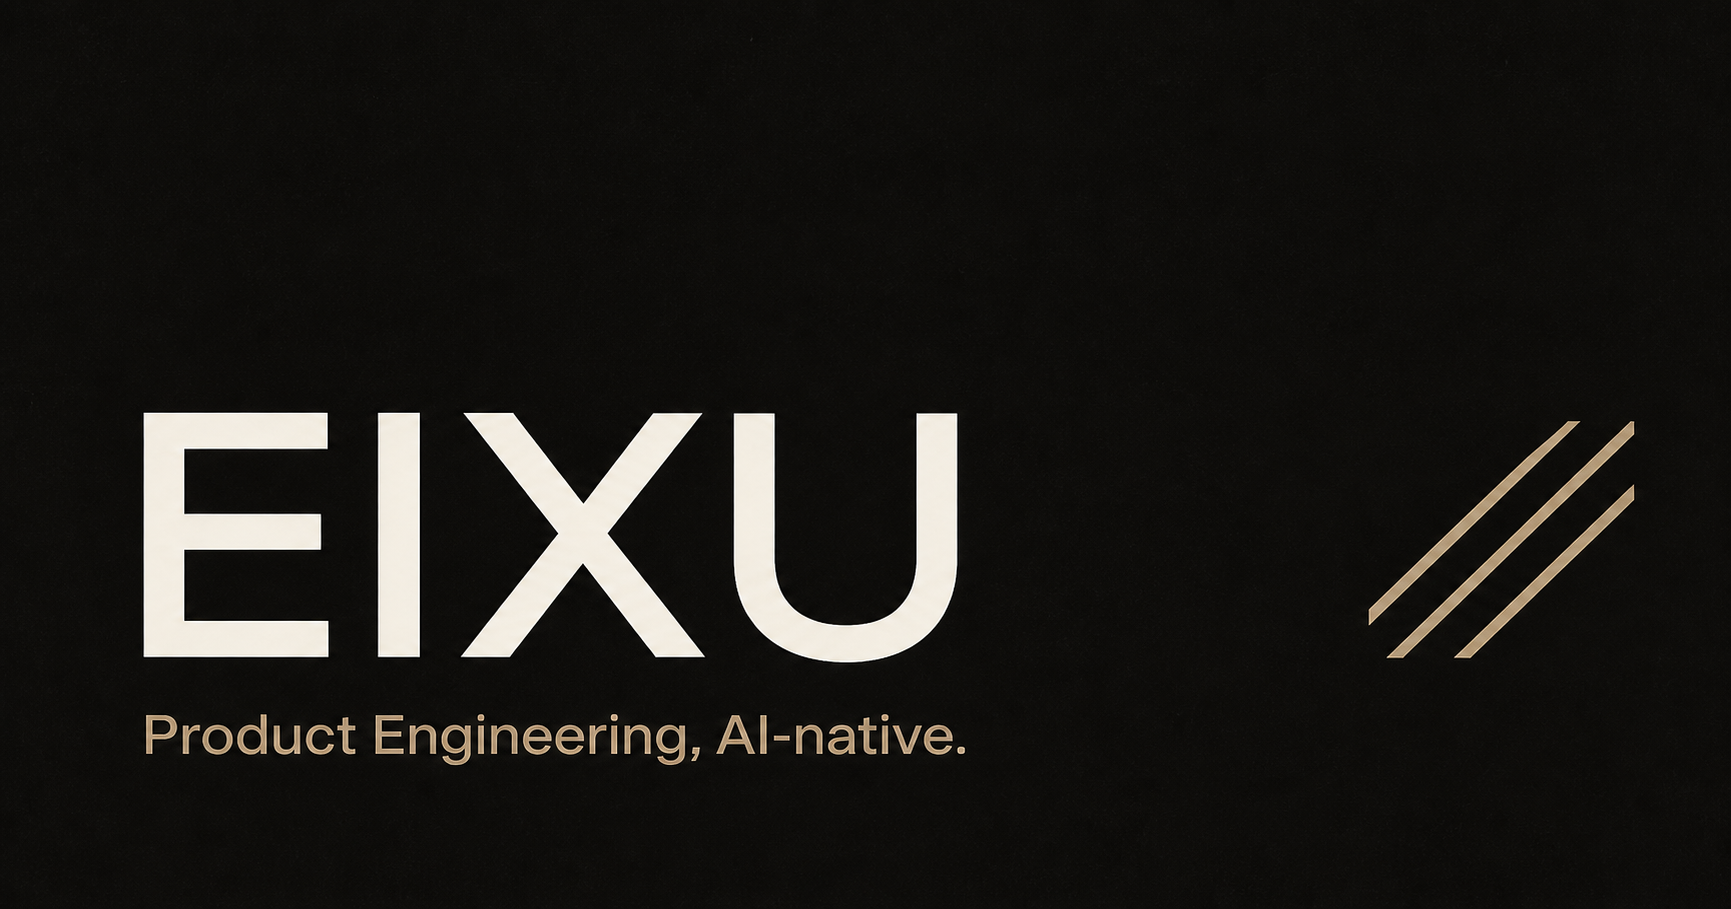
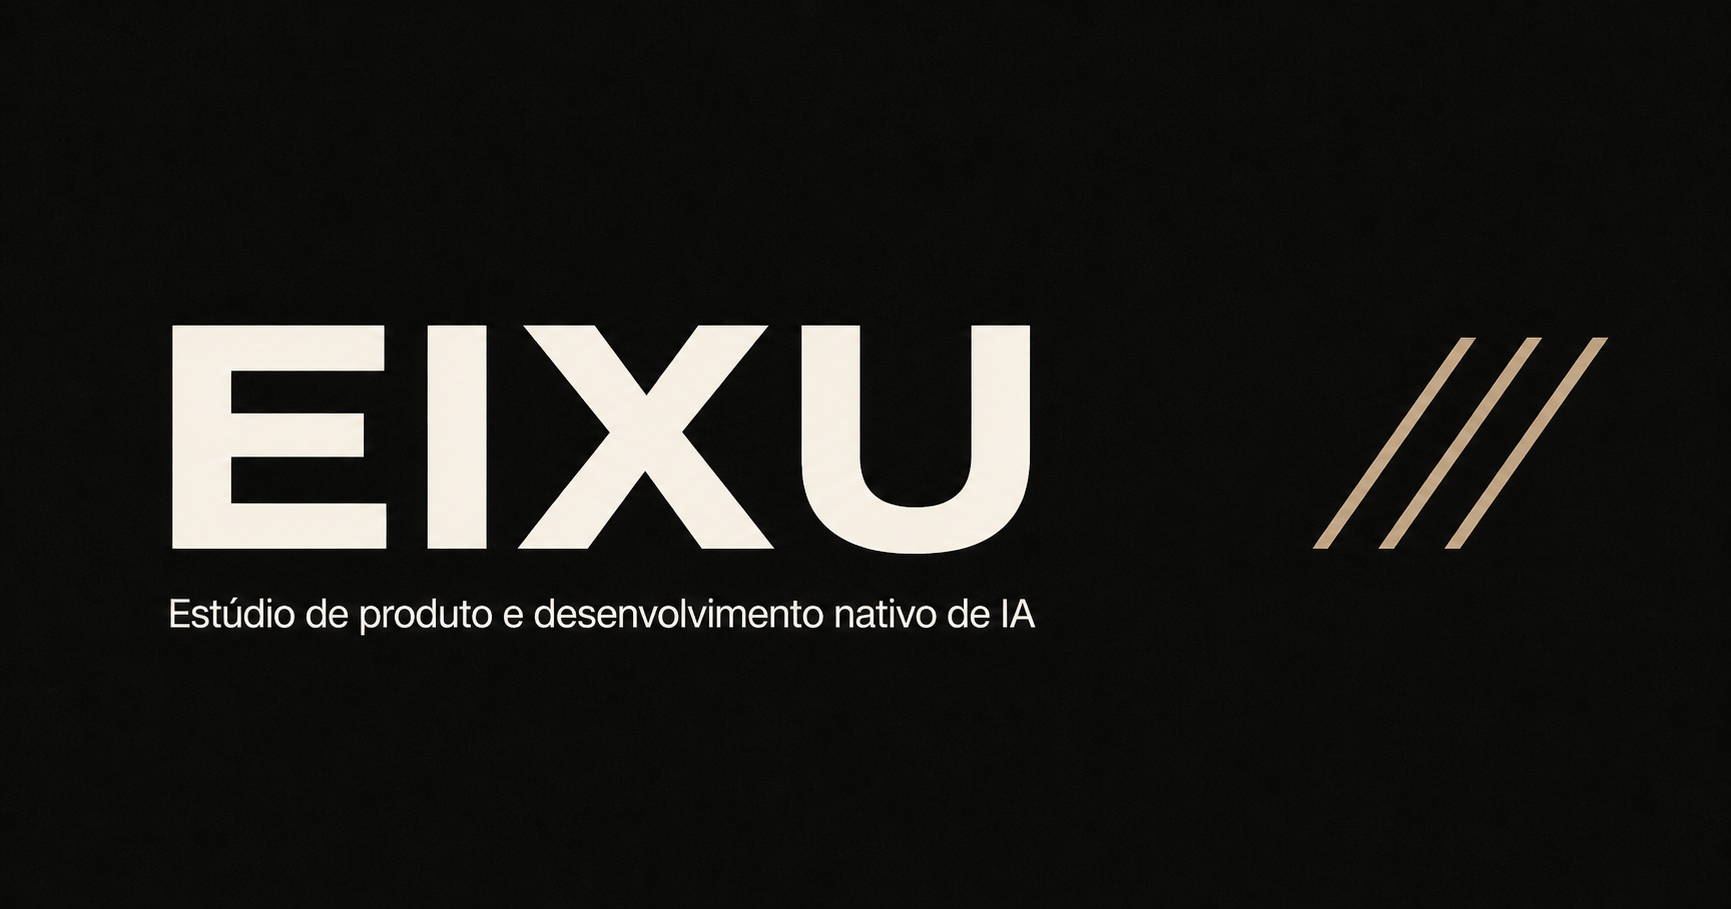
Adopt Portuguese EIXU category language

diff --git a/app/layout.tsx b/app/layout.tsx
@@ -7,20 +7,20 @@ const geistMono = Geist_Mono({ variable: '--font-geist-mono', subsets: ['latin']
 
 export const metadata: Metadata = {
   metadataBase: new URL('https://eixu.com.br'),
-  title: 'EIXU | Product Engineering, AI-native',
+  title: 'EIXU | Estúdio de produto e desenvolvimento nativo de IA',
   description:
     'Você tem uma ideia, protótipo, demo ou plano. A EIXU ajuda a colocar em produção.',
   icons: { icon: '/favicon.svg' },
   openGraph: {
-    title: 'EIXU | Product Engineering, AI-native',
+    title: 'EIXU | Estúdio de produto e desenvolvimento nativo de IA',
     description: 'Você já tem uma ideia, um protótipo, uma demo ou um plano. A EIXU leva até produção.',
     type: 'website',
     locale: 'pt_BR',
-    images: [{ url: '/og.png', width: 1731, height: 909, alt: 'EIXU, Product Engineering, AI-native' }],
+    images: [{ url: '/og.png', width: 1731, height: 909, alt: 'EIXU, Estúdio de produto e desenvolvimento nativo de IA' }],
   },
   twitter: {
     card: 'summary_large_image',
-    title: 'EIXU | Product Engineering, AI-native',
+    title: 'EIXU | Estúdio de produto e desenvolvimento nativo de IA',
     description: 'Você já tem uma ideia, um protótipo, uma demo ou um plano. A EIXU leva até produção.',
     images: ['/og.png'],
   },

diff --git a/app/page.tsx b/app/page.tsx
@@ -45,7 +45,7 @@ export default function Home() {
         <Header />
 
         <div className="hero-grid shell">
-          <p className="eyebrow reveal delay-1">Product Engineering, AI-native.</p>
+          <p className="eyebrow reveal delay-1">Estúdio de produto e desenvolvimento nativo de IA</p>
           <h1 className="hero-title reveal delay-2">
             Você já tem alguma coisa.
             <br />
@@ -166,7 +166,7 @@ export default function Home() {
           <a className="case-card case-card--naia" href="/cases/naiacrm">
             <div className="case-meta">
               <p>NaiaCRM</p>
-              <span>AI systems · 2026</span>
+              <span>Sistemas de IA · 2026</span>
             </div>
             <div className="case-visual naia-system" aria-hidden="true">
               <div className="system-node system-node--main">Naia</div>

diff --git a/app/cases/saldopix/page.tsx b/app/cases/saldopix/page.tsx
@@ -37,7 +37,7 @@ export default function SaldoPixCase() {
         <div className="shell metrics-grid">
           <div><strong>~R$ 1 mi</strong><span>movimentado por mês</span></div>
           <div><strong>Semanas</strong><span>até o primeiro cliente pagante</span></div>
-          <div><strong>100%</strong><span>desenvolvimento AI-native</span></div>
+          <div><strong>100%</strong><span>desenvolvimento nativo de IA</span></div>
         </div>
       </section>
 

diff --git a/app/cases/naiacrm/page.tsx b/app/cases/naiacrm/page.tsx
@@ -29,7 +29,7 @@ export default function NaiaCase() {
     <main className="case-page case-page--naia">
       <Header casePage />
       <section className="case-hero shell">
-        <p className="eyebrow">Case 02 · AI systems</p>
+        <p className="eyebrow">Case 02 · Sistemas de IA</p>
         <h1>NaiaCRM</h1>
         <div className="case-hero-summary">
           <p>Um CRM com IA para apoiar o trabalho comercial.</p>

diff --git a/components/eixu.tsx b/components/eixu.tsx
@@ -61,7 +61,7 @@ export function Footer() {
       </div>
       <div className="shell footer-bottom">
         <Brand />
-        <p>Product Engineering, AI-native.</p>
+        <p>Estúdio de produto e desenvolvimento nativo de IA</p>
         <p>Brasil · 2026</p>
       </div>
     </footer>
